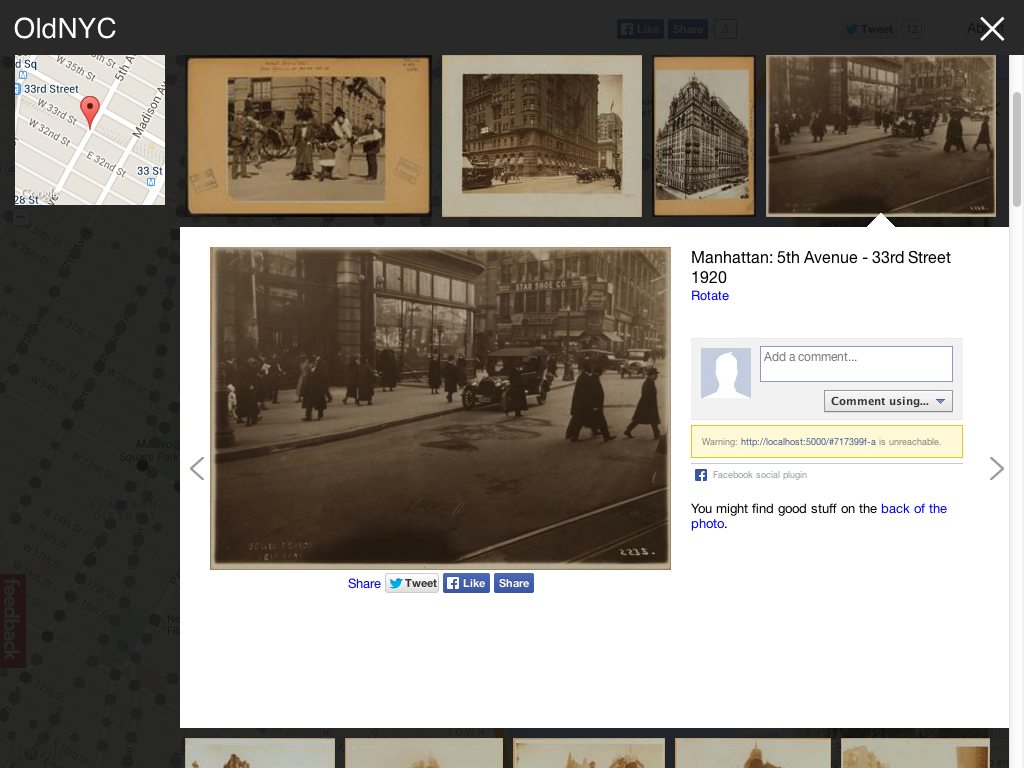
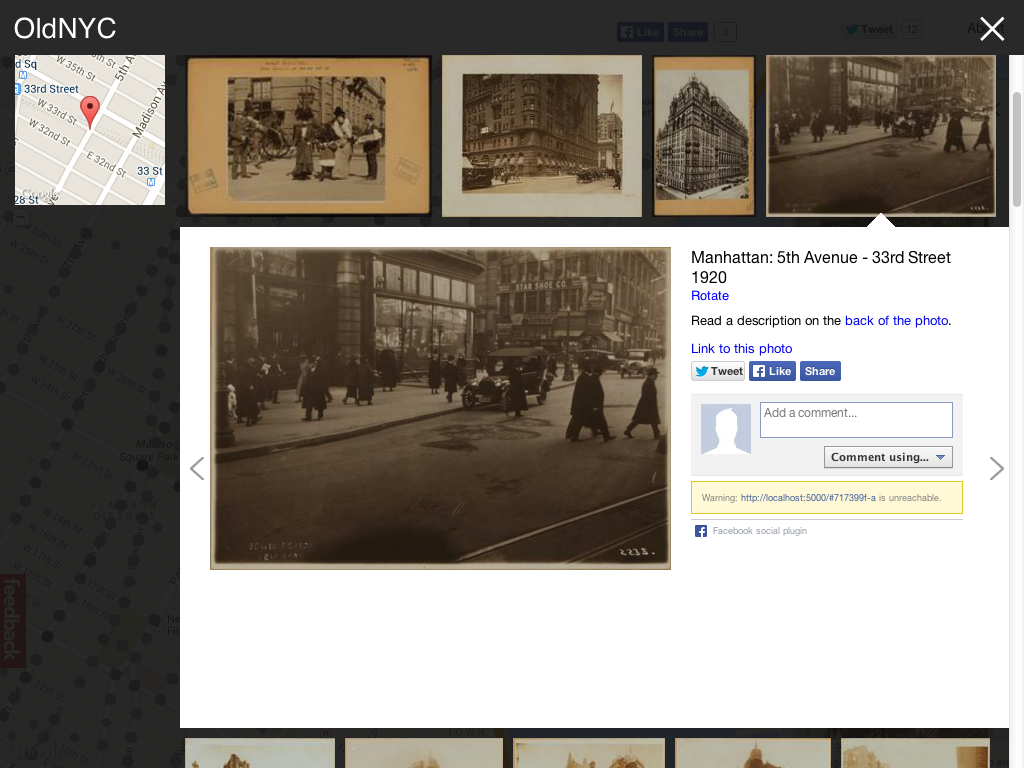
Rearrange expanded panel to get larger images.
Social stuff goes to the right, preview image expands.

Also adds a broken regression test for a negative height bug I found.

Changed region(s): [[0.6562, 0.4062, 0.9375, 0.7188], [0.3438, 0.7188, 0.5312, 0.7812]]

diff --git a/viewer/static/viewer.html b/viewer/static/viewer.html
@@ -88,19 +88,21 @@
   <div id="image-details-template" style="display: none;">
     <div class="description"></div>
     <button class="rotate-image-button">Rotate</button>
-    <div class="comments"></div>
 
-    <div class="more-on-back">You might find good stuff on the <a target="_blank" href="">back of the photo</a>.</div>
-  </div>
-  <div id="image-share-template" style="display: none" class="social">
-    <div class="email-share-form" style="display:none">
-      share a link to this photo<br>
-      <input type="text" size=50 value="" onfocus="this.select();" onmouseup="return false;" >
-      <div><a class="close" href="#">close</a></div>
+    <div class="more-on-back">Read a description on the <a target="_blank" href="">back of the photo</a>.</div>
+
+    <div class="social">
+      <div class="email-share-form" style="display:none">
+        share a link to this photo<br>
+        <input type="text" size=50 value="" onfocus="this.select();" onmouseup="return false;" >
+        <div><a class="close" href="#">close</a></div>
+      </div>
+      <div class="share"><a href="#" class="email-share">Link to this photo</a></div>
+      <div class="tweet"></div>
+      <div class="facebook-holder"></div>
     </div>
-    <div class="share"><a href="#" class="email-share">Share</a></div>
-    <div class="tweet"></div>
-    <div class="facebook-holder"></div>
+
+    <div class="comments"></div>
   </div>
 
   <div style="position: absolute; left: -1000px;">

diff --git a/viewer/static/js/viewer.js b/viewer/static/js/viewer.js
@@ -258,26 +258,23 @@ function fillPhotoPane(photo_id, $pane) {
           .attr('href', canonicalUrl))
   FB.XFBML.parse($comments.get(0));
 
-  var $detailsLeft = $pane.parent().find('.og-details-left');
-  $detailsLeft.append(
-      $('#image-share-template').clone().removeAttr('id').show());
-
   twttr.widgets.createShareButton(
       document.location.href,
-      $detailsLeft.find('.tweet').get(0), {
+      $pane.find('.tweet').get(0), {
         count: 'none',
         text: info.title + ' - ' + info.date,
         via: 'Old_NYC'
       });
 
-  $detailsLeft.find('.facebook-holder').empty().append($('<fb:like>').attr({
+  var $fb_holder = $pane.find('.facebook-holder');
+  $fb_holder.empty().append($('<fb:like>').attr({
       'href': canonicalUrl,
       'layout': 'button',
       'action': 'like',
       'show_faces': 'false',
       'share': 'true'
     }));
-  FB.XFBML.parse($detailsLeft.get(0));
+  FB.XFBML.parse($fb_holder.get(0));
 }
 
 function photoIdFromATag(a) {
@@ -377,7 +374,7 @@ $(function() {
   });
 
   $('#grid-container').on('click', 'a.email-share', function(e) {
-    var $social = $(this).parents('.og-details-left');
+    var $social = $(this).parents('.social');
     var $form = $social.find('.email-share-form');
     $form.find('input').val(document.location.href);
     $form.toggle();

diff --git a/viewer/static/styles/viewer.css b/viewer/static/styles/viewer.css
@@ -68,6 +68,10 @@ a {
   padding: 19px 0 13px;
 }
 
+.header .social > div {
+  display: inline-block;
+}
+
 #facebook {
   margin-right: 100px;
 }
@@ -255,7 +259,7 @@ a {
 }
 
 .comments{
-  margin-top: 35px !important;
+  margin-top: 10px !important;
 }
 
 .description{
@@ -303,9 +307,16 @@ a {
   text-align: right;
 }
 
-.social > div {
+.og-details .tweet, .og-details .facebook-holder {
   display: inline-block;
   vertical-align: top;
+  height: 23px;
+}
+.og-details .social, .more-on-back {
+  margin: 10px 0;
+}
+.og-details .share {
+  padding-bottom: 5px;
 }
 
 #popular::-webkit-scrollbar, .og-details::-webkit-scrollbar-thumb {

diff --git a/viewer/static/styles/grid.css b/viewer/static/styles/grid.css
@@ -113,7 +113,7 @@
 
 .og-fullimg img {
 	display: inline-block;
-	max-height: 90%;
+	max-height: 100%;
 	max-width: 100%;
 }
 
